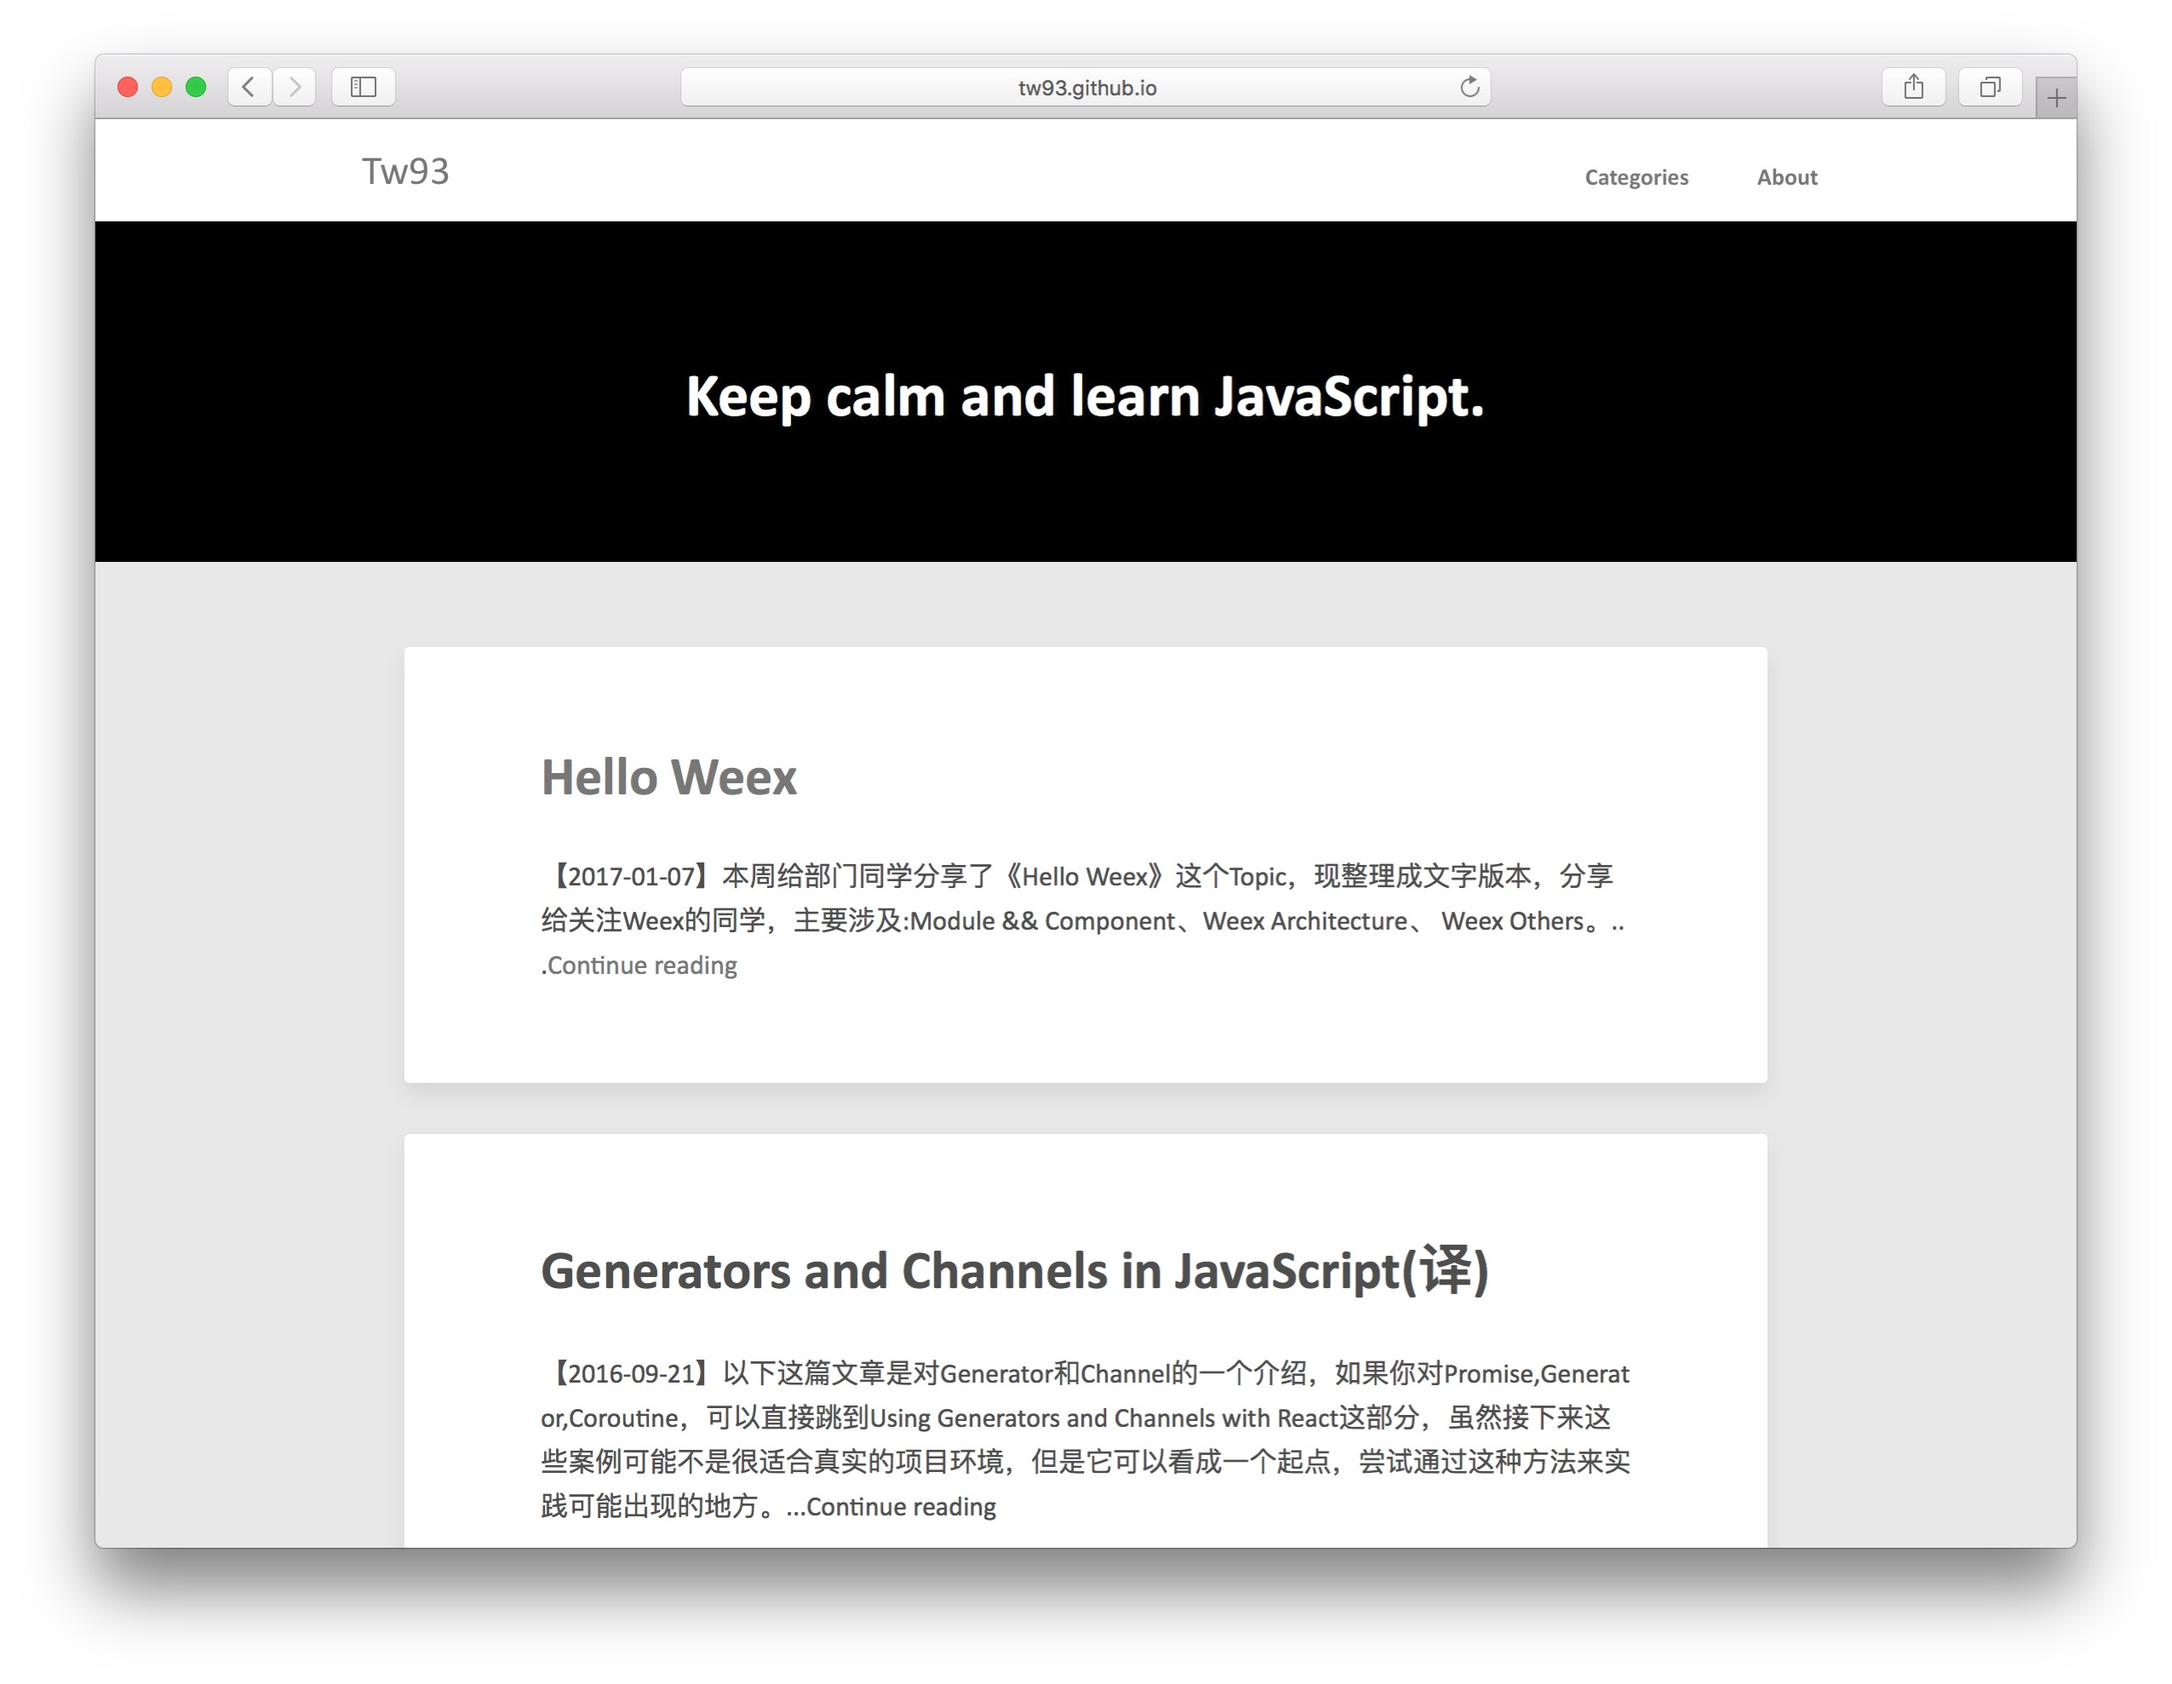
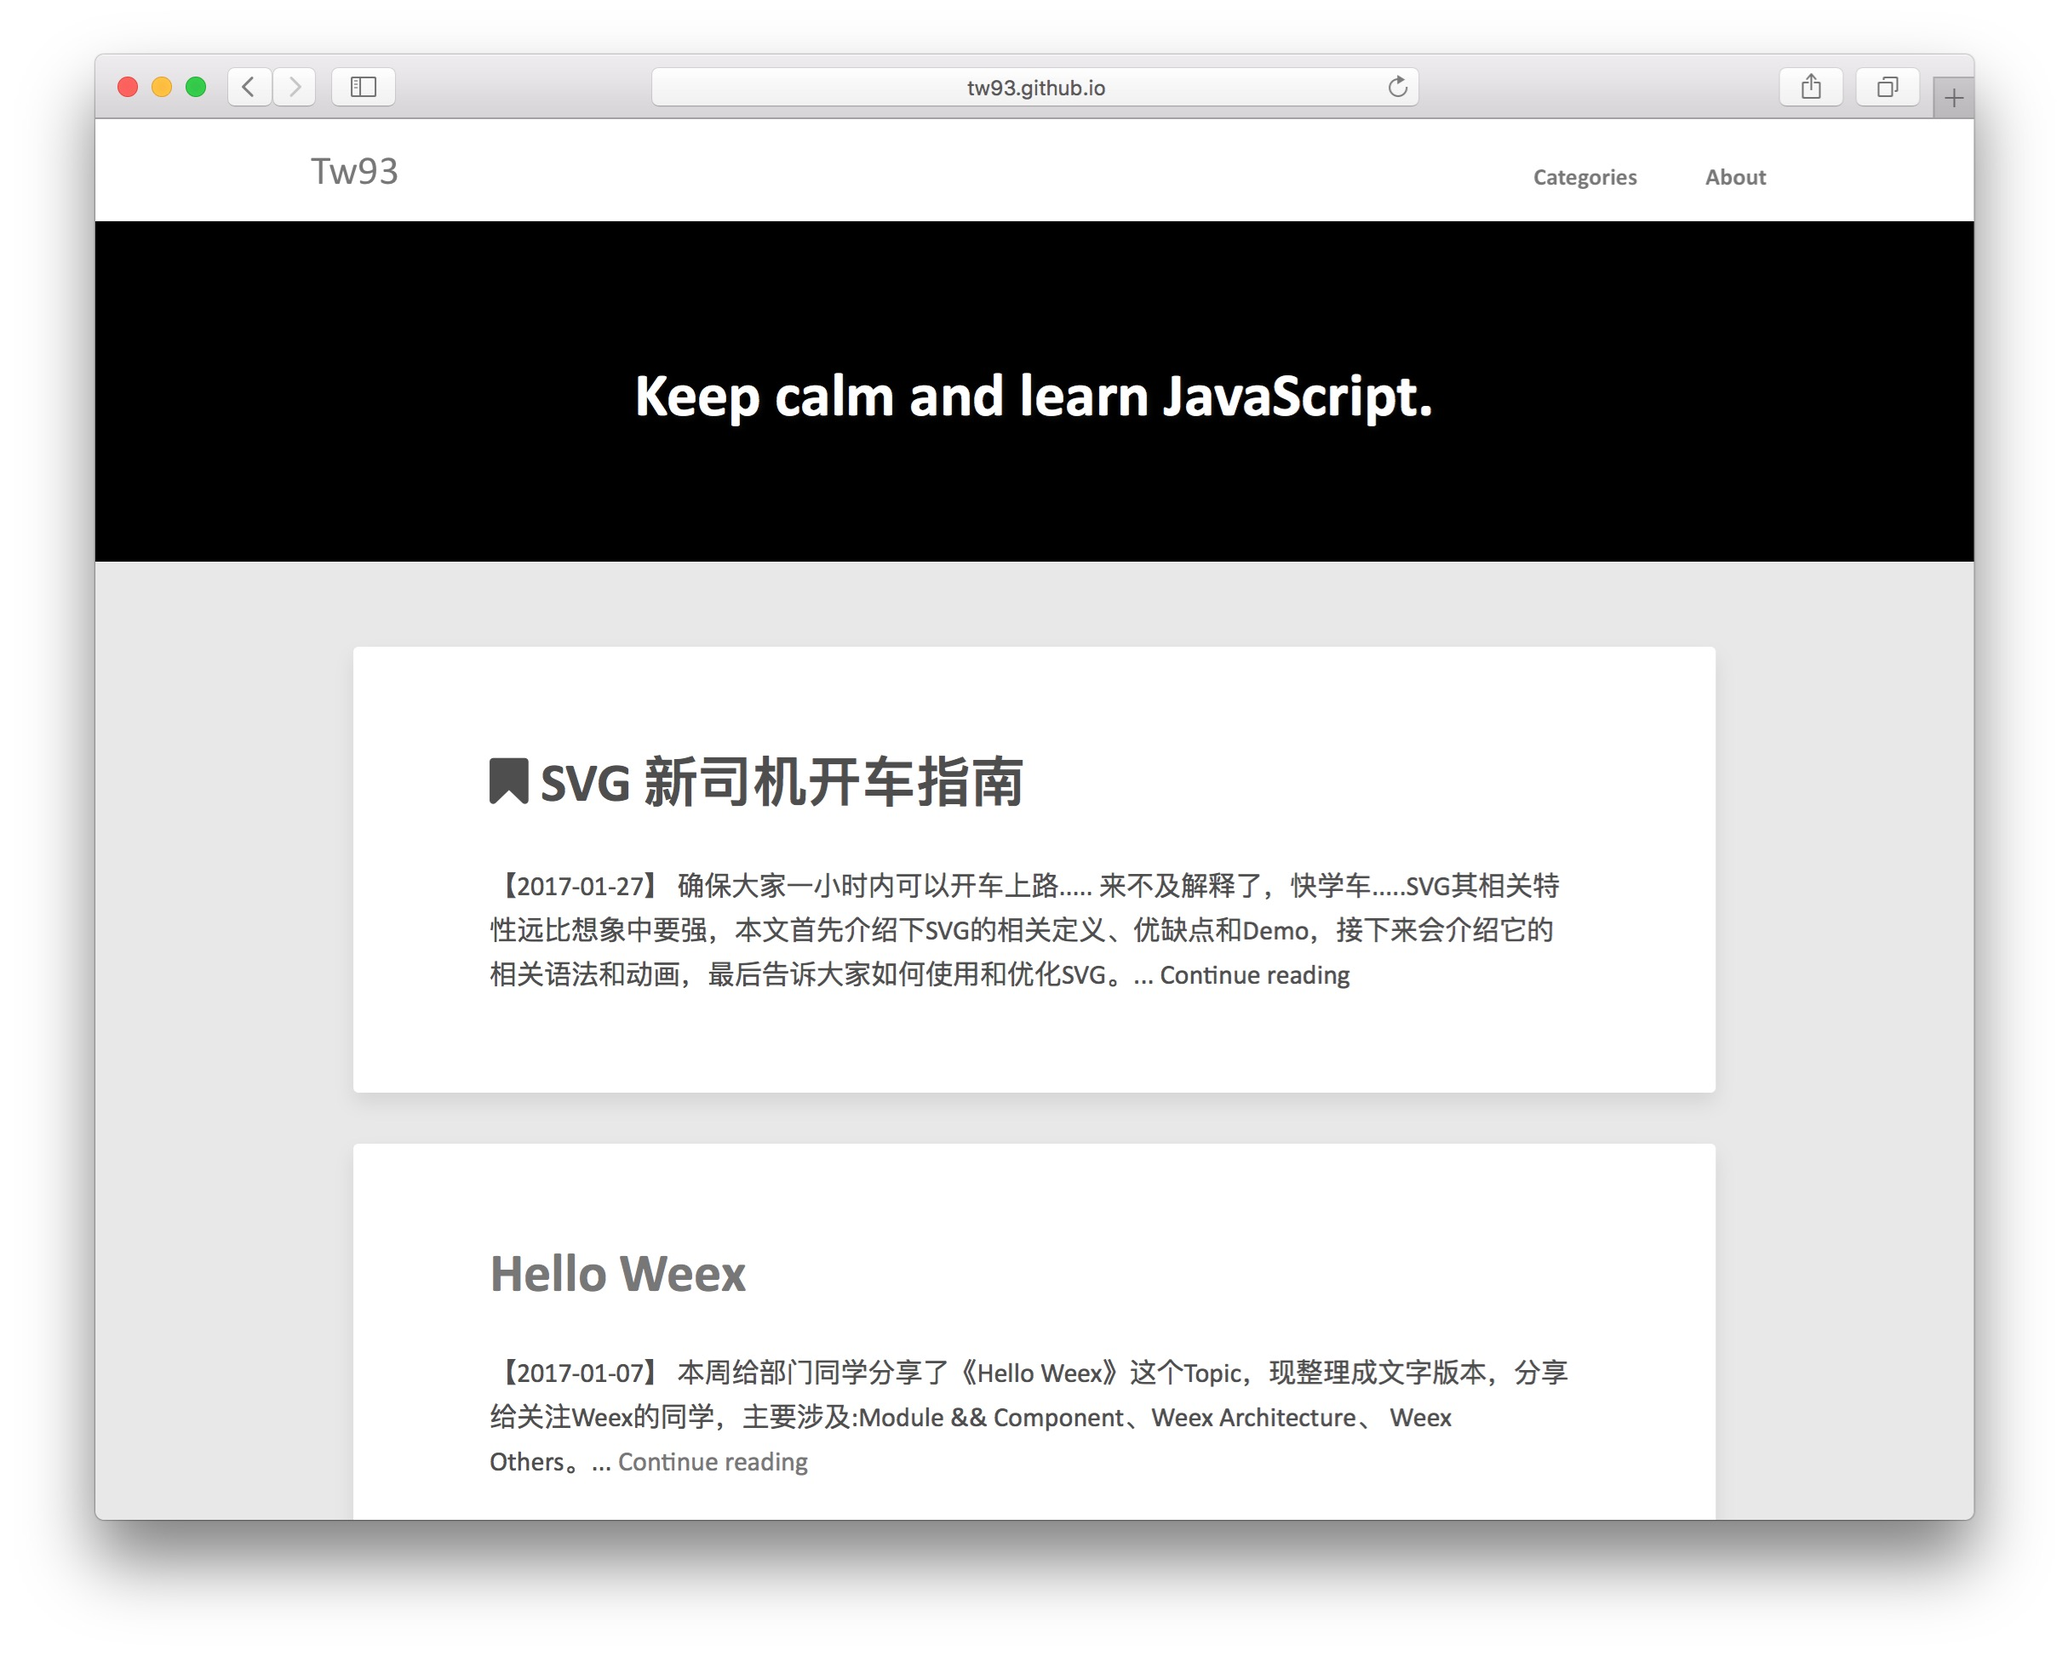
modify readme

diff --git a/README.md b/README.md
@@ -11,7 +11,7 @@
 
 ### H5 Preview
 
-   <img src="http://tw93.github.io/images/demo/1.jpg" width="280"/>&nbsp;&nbsp;&nbsp;&nbsp;<img src="http://tw93.github.io/images/demo/2.jpg" width="280"/>&nbsp;&nbsp;&nbsp;&nbsp;<img src="http://tw93.github.io/images/demo/3.jpg" width="280"/>
+   <img src="http://tw93.github.io/images/demo/1.png" width="270"/>&nbsp;&nbsp;&nbsp;&nbsp;<img src="http://tw93.github.io/images/demo/3.png" width="270"/>&nbsp;&nbsp;&nbsp;&nbsp;<img src="http://tw93.github.io/images/demo/2.png" width="270"/><img src="http://tw93.github.io/images/demo/4.png" width="270"/>
 
 ### QR code
 
